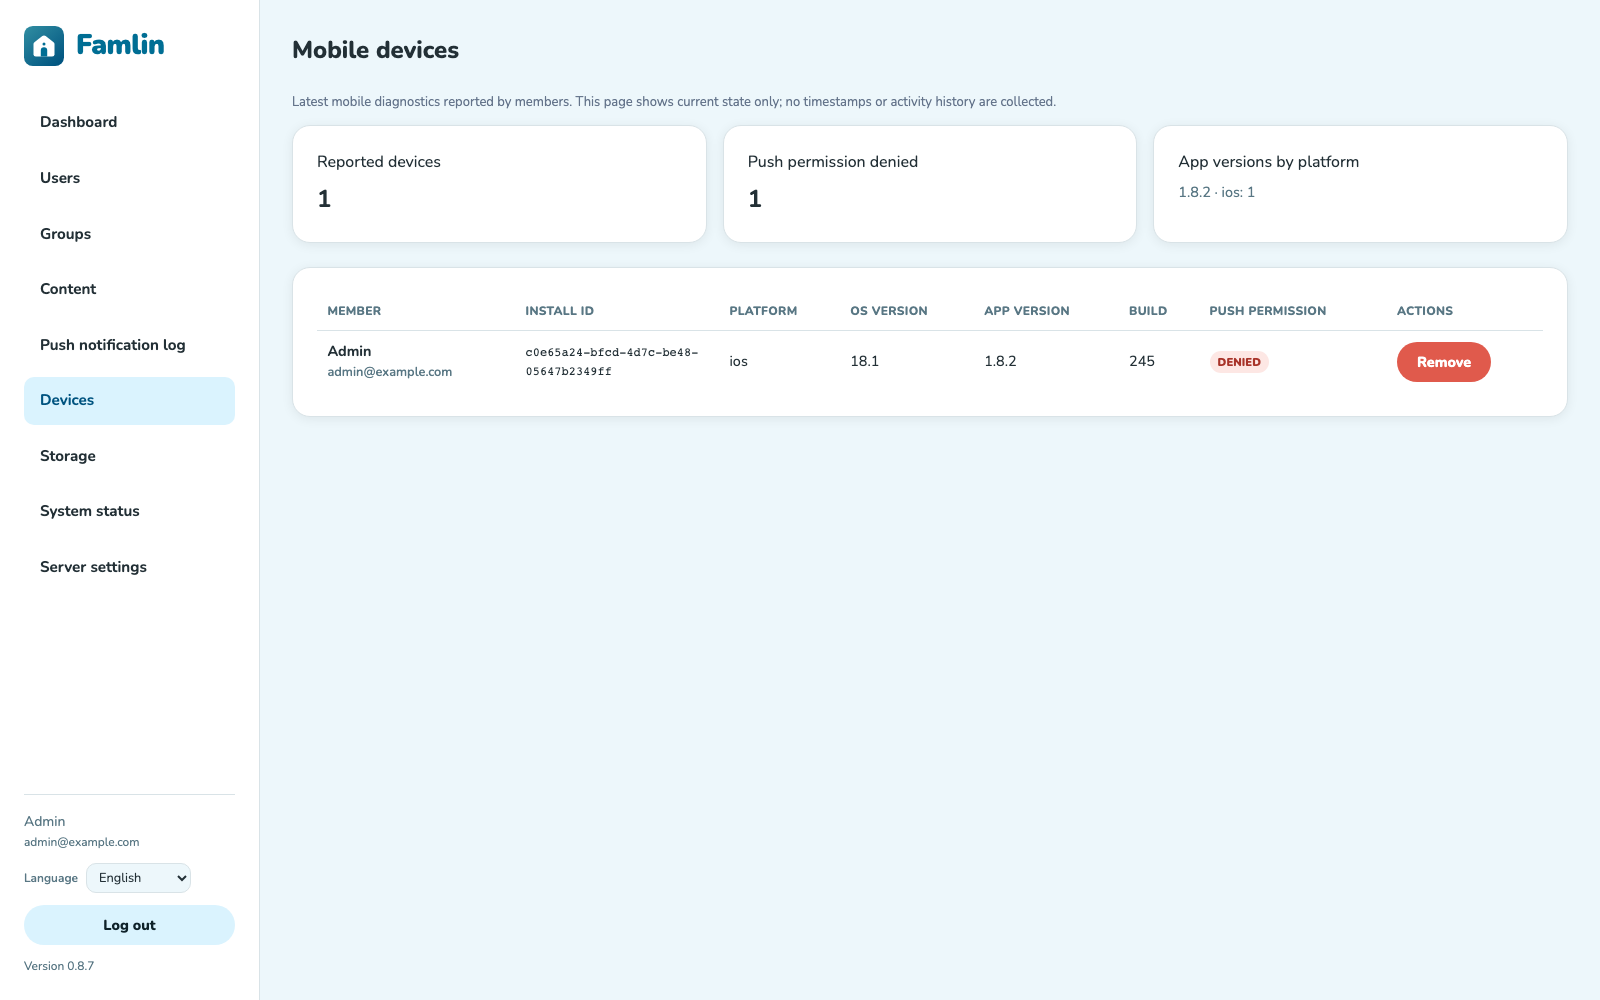
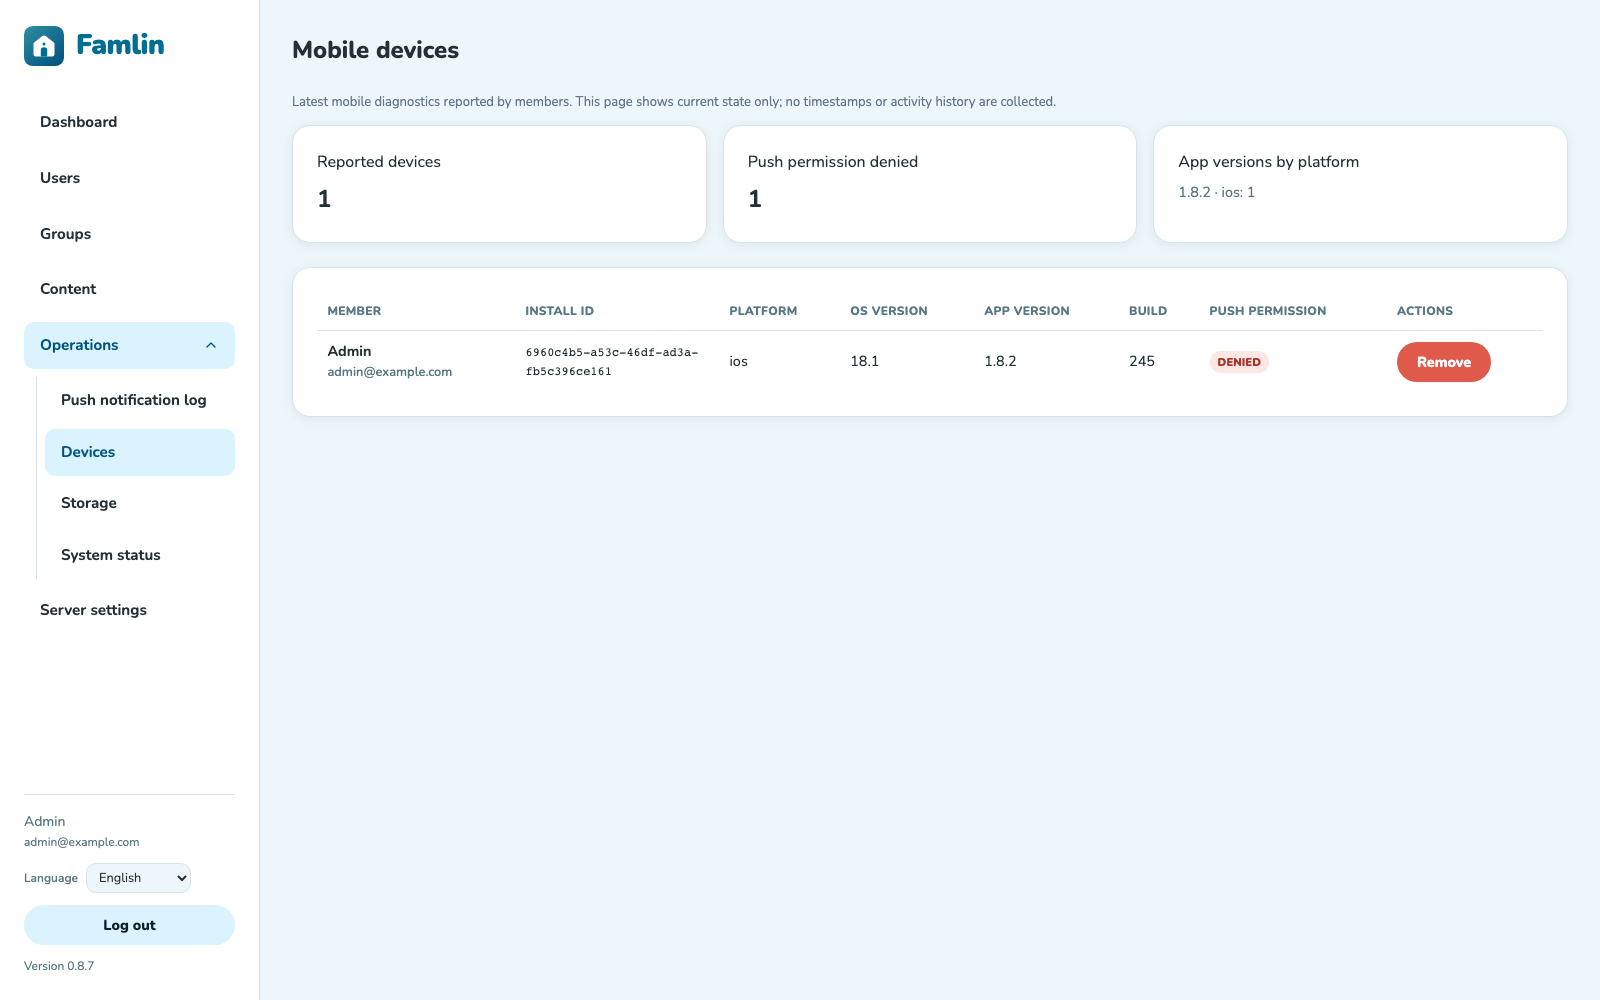
refactor(admin): group operations navigation

Changed region(s): [[0.0, 0.31, 0.1562, 0.62], [0.3125, 0.341, 0.4062, 0.372]]

diff --git a/backend/admin/src/components/Layout.tsx b/backend/admin/src/components/Layout.tsx
@@ -1,20 +1,31 @@
 import { useEffect, useState } from 'react'
 import { NavLink } from 'react-router-dom'
+import { useLocation } from 'react-router-dom'
 import { useTranslation } from 'react-i18next'
 import { Logo } from './Logo'
 import { User } from '../types'
 import { api } from '../api/client'
 import { LanguageSelector } from './LanguageSelector'
 import { AlertBanner } from './AlertBanner'
+import { Icon } from './Icon'
 
 interface LayoutProps {
   user: User
   children: React.ReactNode
 }
 
+const OPERATIONS_ROUTES = ['/push-log', '/devices', '/storage', '/status']
+
 export function Layout({ user, children }: LayoutProps) {
   const { t } = useTranslation()
+  const { pathname } = useLocation()
+  const operationsActive = OPERATIONS_ROUTES.includes(pathname)
+  const [operationsOpen, setOperationsOpen] = useState(operationsActive)
   const [version, setVersion] = useState<string | null>(null)
+
+  useEffect(() => {
+    if (OPERATIONS_ROUTES.includes(pathname)) setOperationsOpen(true)
+  }, [pathname])
 
   // Fail-soft, one-shot — a failed fetch just means no version line, same as
   // DashboardPage's update-check.
@@ -44,10 +55,24 @@ export function Layout({ user, children }: LayoutProps) {
           <NavLink to="/users">{t('layout.users')}</NavLink>
           <NavLink to="/groups">{t('layout.groups')}</NavLink>
           <NavLink to="/content">{t('layout.content')}</NavLink>
-          <NavLink to="/push-log">{t('layout.pushLog')}</NavLink>
-          <NavLink to="/devices">{t('layout.devices')}</NavLink>
-          <NavLink to="/storage">{t('storage.title')}</NavLink>
-          <NavLink to="/status">{t('layout.systemStatus')}</NavLink>
+          <button
+            type="button"
+            className={`sidebar-nav-group-trigger ${operationsOpen ? 'expanded' : ''}`}
+            aria-expanded={operationsOpen}
+            aria-controls="sidebar-operations-links"
+            onClick={() => setOperationsOpen((open) => !open)}
+          >
+            {t('layout.operations')}
+            <span className={operationsOpen ? 'sidebar-nav-chevron expanded' : 'sidebar-nav-chevron'}>
+              <Icon name="chevron-down" size={16} />
+            </span>
+          </button>
+          <div id="sidebar-operations-links" className="sidebar-subnav" hidden={!operationsOpen}>
+            <NavLink to="/push-log">{t('layout.pushLog')}</NavLink>
+            <NavLink to="/devices">{t('layout.devices')}</NavLink>
+            <NavLink to="/storage">{t('storage.title')}</NavLink>
+            <NavLink to="/status">{t('layout.systemStatus')}</NavLink>
+          </div>
           <NavLink to="/settings">{t('layout.serverSettings')}</NavLink>
         </nav>
         <div className="user">

diff --git a/backend/admin/src/index.css b/backend/admin/src/index.css
@@ -134,6 +134,56 @@ body {
   color: var(--primary-hover);
 }
 
+.sidebar-nav-group-trigger {
+  display: flex;
+  align-items: center;
+  justify-content: space-between;
+  width: 100%;
+  padding: 0.75rem 1rem;
+  border: 0;
+  border-radius: var(--radius-sm);
+  background: transparent;
+  color: var(--text);
+  font: inherit;
+  font-size: 0.95rem;
+  font-weight: 700;
+  text-align: left;
+  cursor: pointer;
+}
+
+.sidebar-nav-group-trigger:hover,
+.sidebar-nav-group-trigger.expanded {
+  background: var(--fam-primary-tint);
+  color: var(--primary-hover);
+}
+
+.sidebar-nav-chevron {
+  display: flex;
+  transition: transform 0.15s ease;
+}
+
+.sidebar-nav-chevron.expanded {
+  transform: rotate(180deg);
+}
+
+.sidebar-subnav {
+  display: flex;
+  flex-direction: column;
+  gap: 0.25rem;
+  margin-left: 0.75rem;
+  padding-left: 0.5rem;
+  border-left: 1px solid var(--border);
+}
+
+.sidebar-subnav[hidden] {
+  display: none;
+}
+
+.sidebar-subnav a {
+  padding: 0.6rem 0.75rem;
+  font-size: 0.9rem;
+}
+
 .sidebar .user {
   margin-top: auto;
   padding-top: 1rem;
